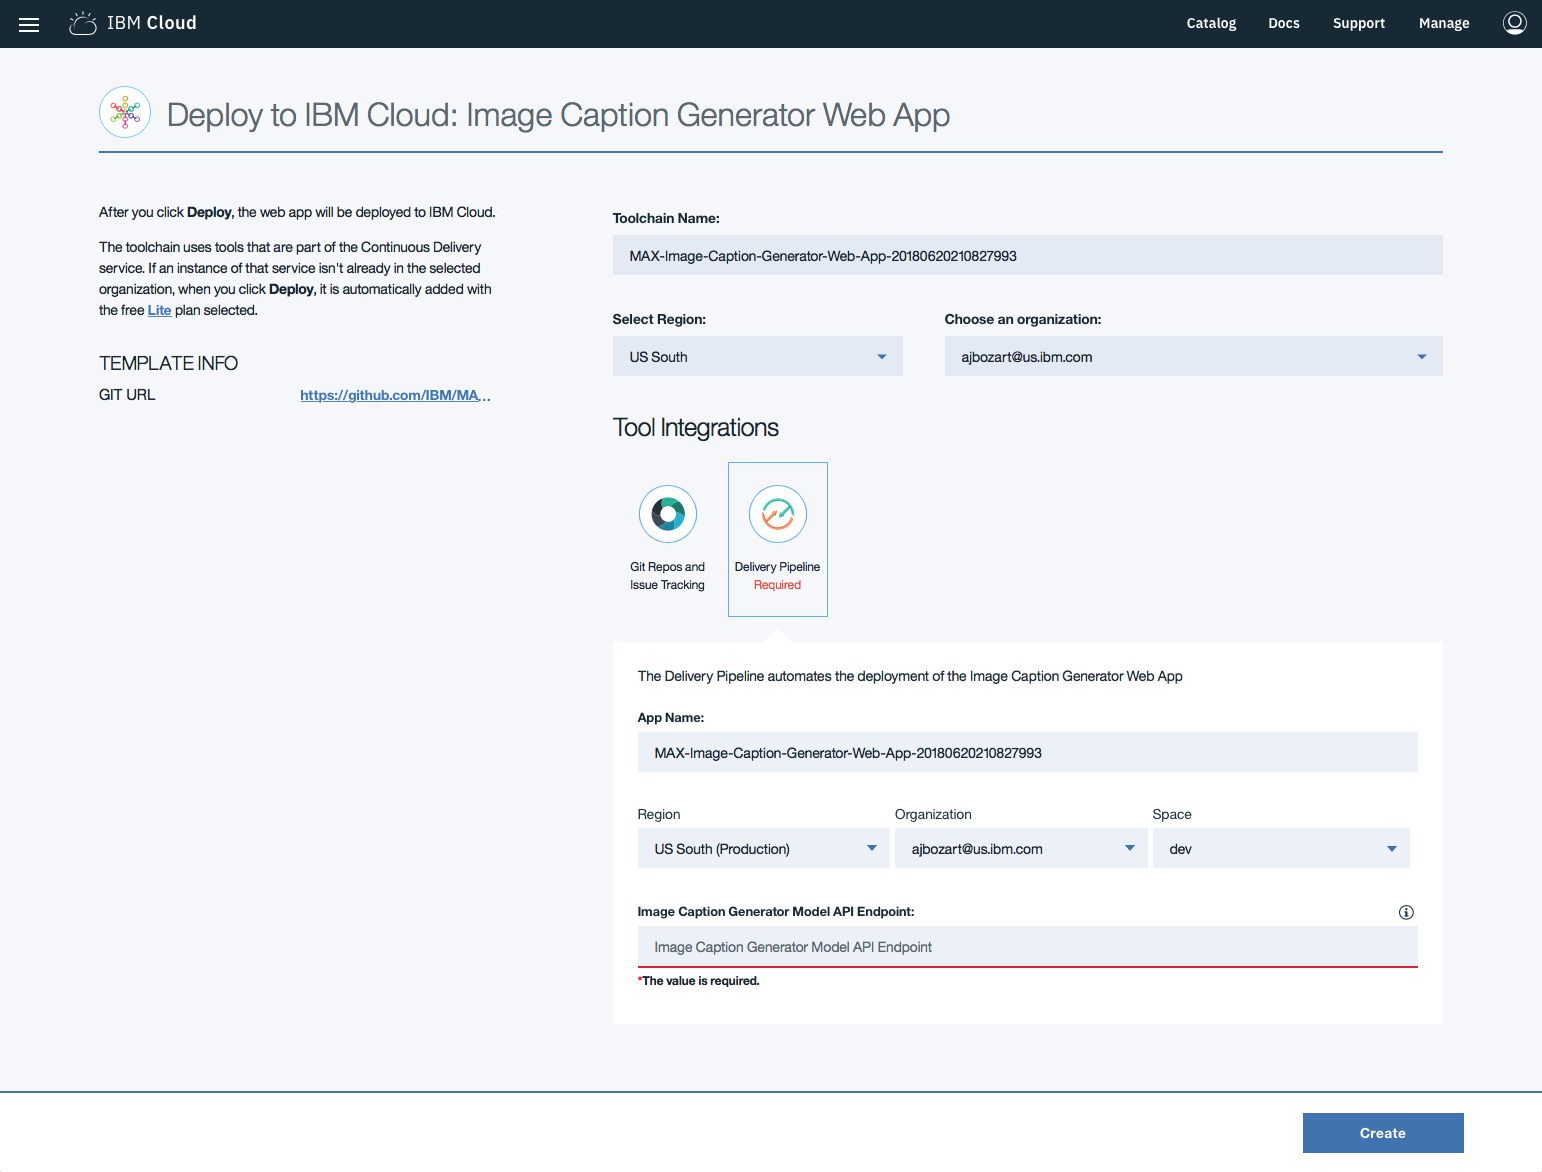
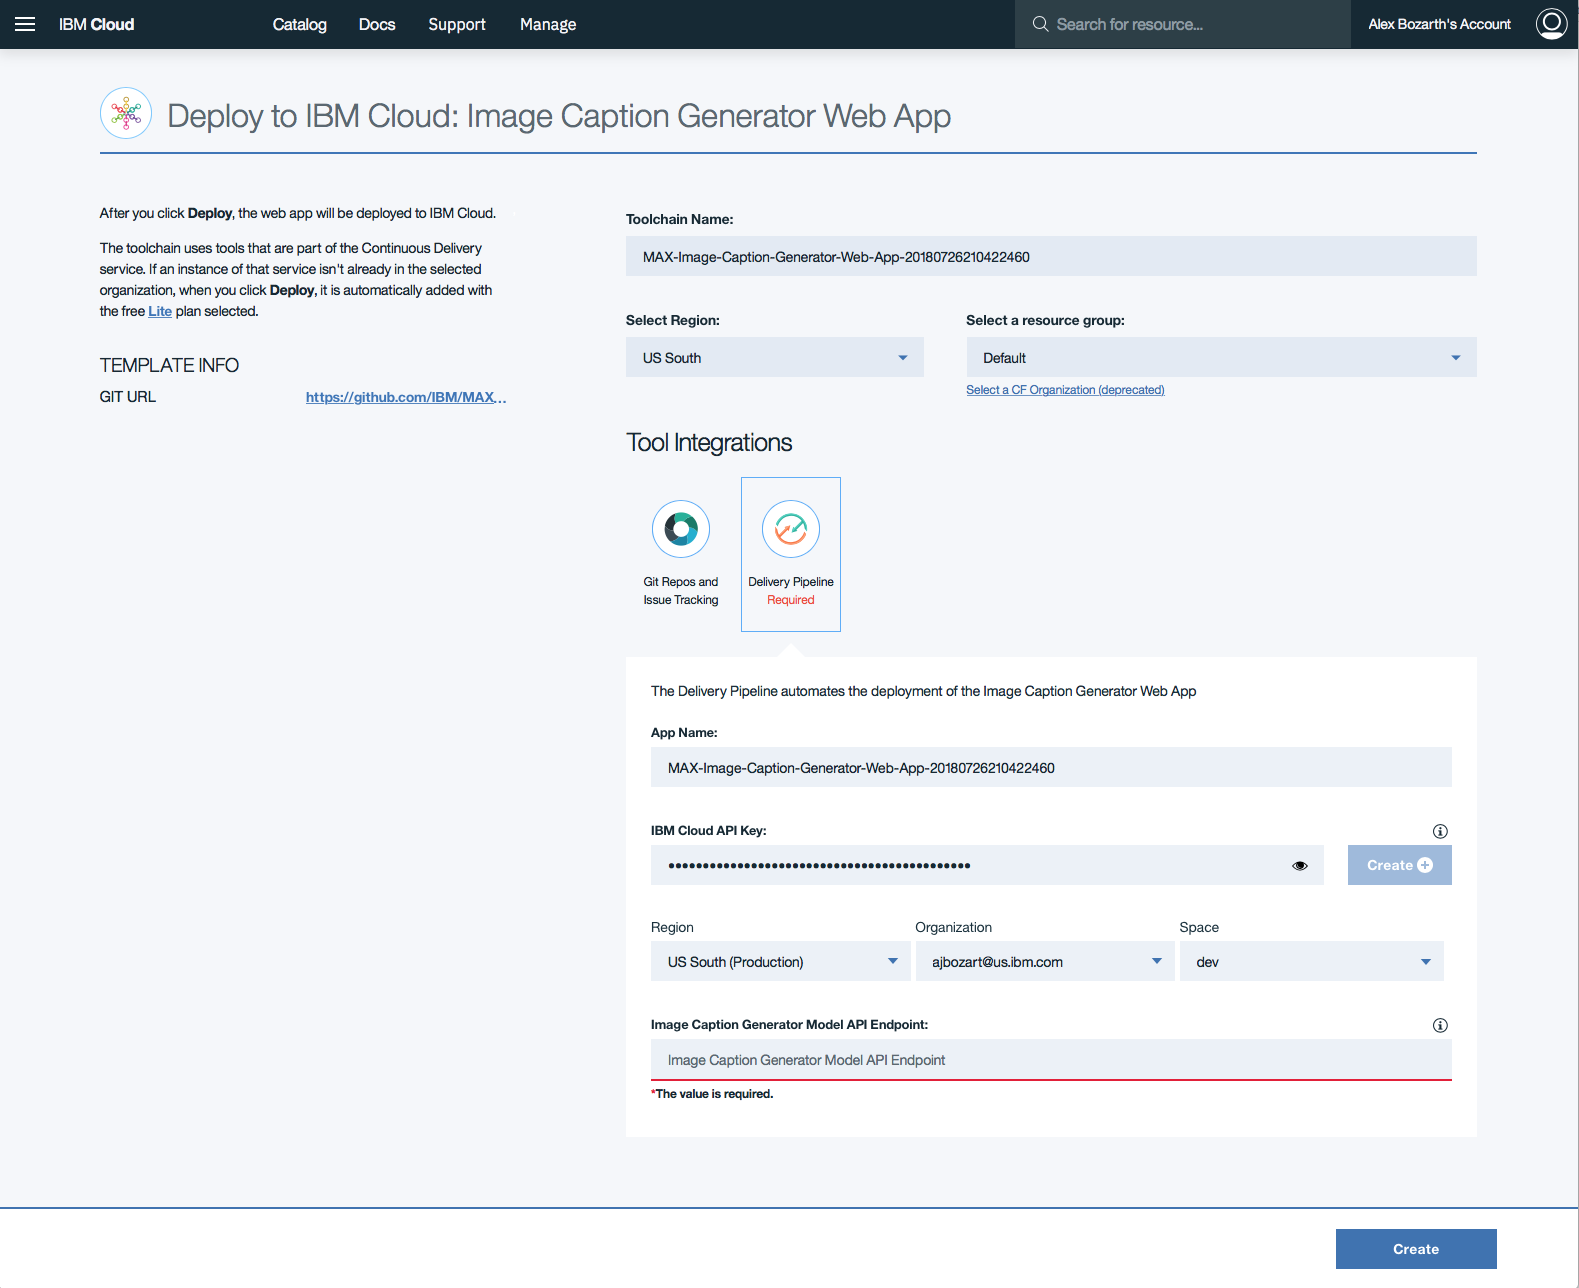
Updated README to match new IBM Cloud deploy pipeline (#36)
A recent change in the Deploy to IBM Cloud "pipeline" has added a step requiring users to generate an API key.
This pr adds documentation for that change, including a new screen shot

diff --git a/README.md b/README.md
@@ -82,13 +82,18 @@ If you already have a model API endpoint available you can skip this process.
 
     [![Deploy to IBM Cloud](https://bluemix.net/deploy/button.png)](https://bluemix.net/deploy?repository=https://github.com/IBM/MAX-Image-Caption-Generator-Web-App)
 
-2. Click `Delivery Pipeline` and fill in the form with the Image Caption Generator API endpoint deployed above, then click on `Create`.
+2. Click `Delivery Pipeline` and click the `Create +` button in the form to generate a `IBM Cloud API Key` for the web app.
+
+    ![Create API Key](doc/source/images/ibm-cloud-api-key.png)
+
+3. Once the API key is generated, the `Region`, `Organization`, and `Space` form sections will populate. Fill in the
+`Image Caption Generator Model API Endpoint` section with the endpoint deployed above, then click on `Create`.
 
     > The format for this entry should be `http://170.0.0.1:5000`
 
     ![Create App](doc/source/images/ibm-cloud-form.png)
 
-3. In Toolchains, click on `Delivery Pipeline` to watch while the app is deployed. Once deployed, the app can be
+4. In Toolchains, click on `Delivery Pipeline` to watch while the app is deployed. Once deployed, the app can be
 viewed by clicking `View app`.
 
     ![Delivery Pipeline](doc/source/images/ibm-cloud-deploy.png)
